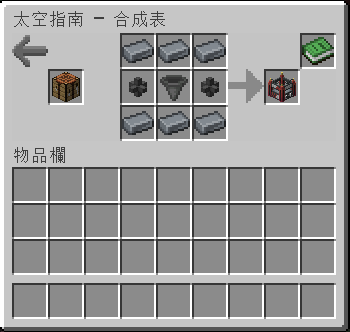
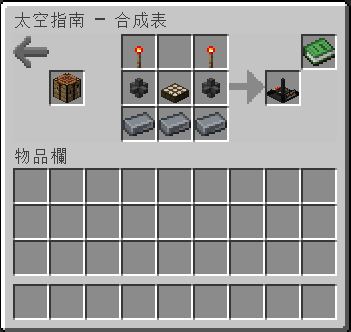
GitBook: [#81] No subject

diff --git a/item/Solar-Panel.md b/item/Solar-Panel.md
@@ -6,15 +6,17 @@
 
 ![](https://camo.githubusercontent.com/e2329d82be3d45675352e4bd33971e04bb33cdfc5fd57391339c5c2e40386a94/68747470733a2f2f692e696d6775722e636f6d2f334747695a59352e706e67)
 
-太陽能板是一種會根據太陽位置變化的可變功率的[能源輸出](../space/energy-systems.md)。它可以存儲多達 8000 單位的能量，通過[電線](Wire.md)傳輸到其他機器。
+太陽能板是一種會根據太陽位置變化的可變功率的[能源輸出](../space/energy-systems.md)。它可以存儲多達 10000 單位的能量，通過[導管](Conduit.md)傳輸到其他機器。
+
+## 獲得
 
 ### 製作
 
 太陽能板可以使用以下物品製作：
 
-![](<../.gitbook/assets/image (21).png>)
+![](<../.gitbook/assets/image (213).png>)
 
 * 3 [鋁合金錠](aluminium-alloy-ingot.md)
-* 2 [電線](Wire.md)
+* 2 [導管](Conduit.md)
 * 1 日光感測器
 * 2 紅石火把

diff --git a/item/Advanced-Solar-Panel.md b/item/Advanced-Solar-Panel.md
@@ -1,0 +1,21 @@
+# 先進的太陽能板
+
+
+
+![](https://camo.githubusercontent.com/2bc8fa2012053ee5ecd02483ecc1d0d878bc4262ee3c511277b5b278a1d3d037/68747470733a2f2f692e696d6775722e636f6d2f7555646f3049652e706e67)
+
+高級太陽能電池板是一種[能源輸出](../space/energy-systems.md)，其功率輸出取決於一天中的時間。它可以儲存多達 15000 單位的能量，以通過[導管](Conduit.md)傳輸到其他機器。它的效率是一般[太陽能板](Solar-Panel.md)的兩倍。
+
+## 獲得
+
+### 製作
+
+先進的太陽能板可以使用以下物品製作：
+
+![](<../.gitbook/assets/image (221).png>)
+
+* 1 [電容](capacitor.md)
+* 1 [太陽能板](Solar-Panel.md)
+* 2 [塑料](plastic.md)
+* 2 [防突波電線](surge-proof-wire.md)
+* 3 [鈦錠](titanium-ingot.md)

diff --git a/SUMMARY.md b/SUMMARY.md
@@ -18,14 +18,15 @@
   * [無線充電站](item/Wireless-Charging-Station.md)
   * [人工重力製造機](item/Artificial-Gravity-Generator.md)
   * [氧氣釋放器](item/Oxygen-Bubble-Distributor.md)
+  * [氧氣收集器](item/Oxygen-Collector.md)
+  * [太陽能板](item/Solar-Panel.md)
+  * [先進的太陽能板](item/Advanced-Solar-Panel.md)
 
 ## 特殊物品 <a href="#item" id="item"></a>
 
 * [電線](item/Wire.md)
 * [管線](item/Pipe.md)
 * [板手](item/Wrench.md)
-* [氧氣收集器](item/Oxygen-Collector.md)
-* [太陽能板](item/Solar-Panel.md)
 * [氧氣製造機](item/Tank-Refiller.md)
 * [燃煤發電機](item/Coal-Generator.md)
 * [核反應推](item/Nuclear-Reactor.md)

diff --git a/item/Oxygen-Collector.md b/item/Oxygen-Collector.md
@@ -20,7 +20,7 @@
 
 ### 啟動
 
-可以通過[電線](Wire.md)接收能量來啟動氧氣收集器。
+可以通過[導管](Conduit.md)接收能量來啟動氧氣收集器。
 
 一個氧氣收集器可以儲存多達 16000 單位的能量，以及多達 8000 單位的氧氣。
 
@@ -30,4 +30,4 @@
 
 氧氣收集器需要 2-16 片葉子才能產生氧氣。更多的葉子將提高氧氣收集器的效率。
 
-來自氧氣收集器的氧氣可以通過[管線](Pipe.md)傳輸到機器。機器只有在需要其運行時才會接收氧氣。
+來自氧氣收集器的氧氣可以通過[導管](Conduit.md)傳輸到機器。機器只有在需要其運行時才會接收氧氣。

diff --git a/item/Oxygen-Bubble-Distributor.md b/item/Oxygen-Bubble-Distributor.md
@@ -10,7 +10,7 @@
 
 氧氣釋放器可以使用以下物品製作：
 
-![](<../.gitbook/assets/image (221).png>)
+![](<../.gitbook/assets/image (222).png>)
 
 * 2 [鈀錠](palladium-ingot.md)
 * 4 [鋁合金錠](aluminium-alloy-ingot.md)

diff --git a/item/Charging-Station.md b/item/Charging-Station.md
@@ -10,7 +10,7 @@
 
 充電站可以使用以下物品製作：
 
-![](<../.gitbook/assets/image (213).png>)
+![](<../.gitbook/assets/image (213) (1).png>)
 
 * 1 料斗
 * 2 [導管](Conduit.md)
